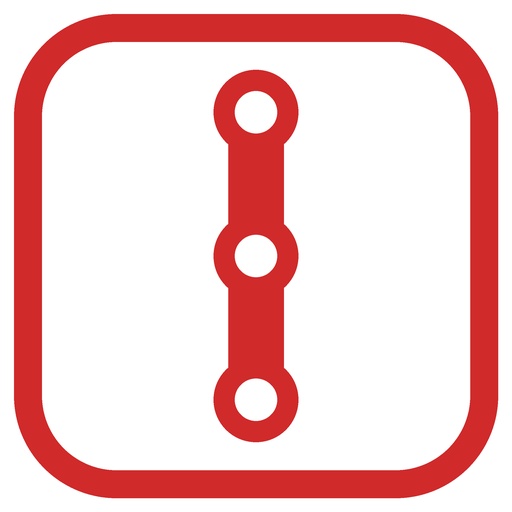
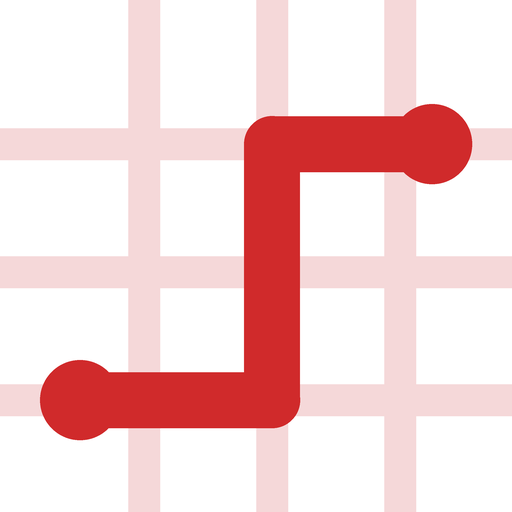
アイコンを「最短」案に差し替える
旧アイコンが生きものの顔に見えるという指摘を受けた。原因は3つが同時に
揃っていたこと: (1)角丸の枠が輪郭=頭に見える (2)中身が縦一本の左右対称で
顔の中心線と一致する (3)白抜きドーナツ状の点が瞳孔の形をしている。

新しい図は「街の格子を一本の経路が抜けていく」形で、横方向の折れ線・
左右非対称・枠なし・白抜きの点なし。上の3条件をすべて外している。
経路探索というアプリの動作そのものを図にしたものでもある。

旧版は白地が明るいホーム画面で消えるのを避けるため赤い枠を付けていたが、
その枠が顔に見える原因だったので廃止し、代わりに格子を端まで伸ばして
地紋に範囲を示させた(GRID_BLEEDで切り替え可能)。

意匠上の制約は従来どおり赤十字・ヘルプマークを回避。あわせて、赤ベタの
角丸四角はヘルプマークの第一印象そのものなので地は白のままとした。

マスカブルは経路だけ0.74倍して円の安全域に収め、32pxのファビコンは
格子がつぶれるため省いて経路を太くした。

diff --git a/sw.js b/sw.js
@@ -3,7 +3,7 @@
 // ★ 内容を更新したら必ず VERSION を変えること。
 //    VERSION が変わらないと、利用者の端末に古い運賃データが残り続ける。
 //    tools/build_network.py を実行すると、この行は自動で書き換わる。
-const VERSION = "2026-08-28-3";
+const VERSION = "2026-08-29-1";
 
 const CACHE = "toei-muryo-" + VERSION;
 

diff --git a/tools/make_icons.py b/tools/make_icons.py
@@ -3,13 +3,27 @@
 """
 PWA用のアイコンを生成する。 python tools/make_icons.py で実行。
 
+意匠: 街の格子を一本の経路が抜けていく図(2026-08-28に採用した「最短」案)。
+      格子は淡い赤、経路は RayV の赤。始点と終点に駅の点を置く。
+
 意匠上の制約:
   ・白地に赤十字は赤十字標章条約および国内法で使用が禁じられているため、十字形は使わない。
+    格子は淡色の細線が等間隔に並ぶ地紋であって、標章とは形も色も異なる。
   ・ヘルプマークは東京都の登録商標で改変できないため、模倣しない。
-  → 経路(線と3つの駅)のモチーフを、RayVのロゴに合わせた白地・赤で表現する。
+    赤ベタの角丸四角はヘルプマークの第一印象そのものなので、地は白のままにしてある。
+  ・花・笑顔・ハート・手など、福祉を直接連想させる記号は使わない。
 
-白地のままだと明るいホーム画面で輪郭が消えるため、通常アイコンには赤い枠を付ける。
-マスカブル(Androidで円などに切り抜かれる)は枠が切れてしまうので、枠なしで中央に寄せる。
+★以前のアイコンが「顔」に見えた理由と、その回避★
+  旧版は (1)角丸の枠が輪郭=頭に見え (2)中身が縦一本の左右対称で顔の中心線と一致し
+  (3)白抜きドーナツ状の点が瞳孔の形をしていた、の3つが揃っていた。
+  この案は横方向の折れ線・左右非対称・枠なし・白抜きの点なし で、3つとも外している。
+  ★改変するときはこの3条件を復活させないこと。★
+
+枠について:
+  旧版は「白地だと明るいホーム画面で輪郭が消える」ため赤い枠を付けていたが、
+  枠は頭の輪郭に見える原因だったので使わない。代わりに格子を端まで伸ばし、
+  地紋そのものにアイコンの範囲を示させている(GRID_BLEED)。
+  余白のある見た目に戻したい場合は GRID_BLEED = False にする。
 """
 
 import os
@@ -18,37 +32,60 @@ from PIL import Image, ImageDraw
 HERE = os.path.dirname(os.path.abspath(__file__))
 OUT = os.path.join(os.path.dirname(HERE), "icons")
 
-RED = (208, 42, 43)       # RayVのロゴに合わせた赤
+RED = (208, 42, 43)        # RayVのロゴに合わせた赤
+GRID = (245, 216, 217)     # 街路の格子。経路より十分に淡くする
 WHITE = (255, 255, 255)
 
+# 意匠は 64×64 の升目で定義し、出力の大きさに合わせて拡大する。
+ROUTE = [(10, 50), (34, 50), (34, 18), (54, 18)]  # 左下から右上へ、2回折れる
+GRID_X = (18, 34, 50)
+GRID_Y = (18, 34, 50)
+GRID_BLEED = True          # 格子を端まで伸ばす(枠の代わりに範囲を示す)
+GRID_INSET = 8             # GRID_BLEED = False のときの格子の端
 
-def draw_icon(size, pad_ratio, border):
-    ss = 4  # アンチエイリアス用に4倍で描いて縮小する
+ROUTE_W = 7.0              # 経路の太さ
+DOT_R = 5.0                # 駅の点の半径
+GRID_W = 4.0               # 格子の太さ
+
+
+def _disc(d, x, y, r, fill):
+    d.ellipse([x - r, y - r, x + r, y + r], fill=fill)
+
+
+def _polyline(d, pts, width, fill):
+    """角と端を丸めた折れ線。PILに丸キャップが無いので頂点に円を重ねる。"""
+    w = max(1, int(round(width)))
+    for (x1, y1), (x2, y2) in zip(pts, pts[1:]):
+        d.line([x1, y1, x2, y2], fill=fill, width=w)
+    for x, y in pts:
+        _disc(d, x, y, width / 2.0, fill)
+
+
+def draw_icon(size, grid=True, scale=1.0, route_w=ROUTE_W, dot_r=DOT_R):
+    """scale は経路だけを中心に寄せる倍率。マスカブル(円に切り抜かれる)用。"""
+    ss = 4                      # アンチエイリアス用に4倍で描いて縮小する
     s = size * ss
+    u = s / 64.0                # 升目1つぶんの画素数
     img = Image.new("RGBA", (s, s), WHITE + (255,))
     d = ImageDraw.Draw(img)
 
-    if border:
-        bw = s * 0.055
-        d.rounded_rectangle([bw / 2, bw / 2, s - bw / 2, s - bw / 2],
-                            radius=s * 0.20, outline=RED, width=int(bw))
+    if grid:
+        gw = max(1, int(round(GRID_W * u)))
+        lo, hi = (0, s) if GRID_BLEED else (GRID_INSET * u, (64 - GRID_INSET) * u)
+        for gx in GRID_X:
+            d.line([gx * u, lo, gx * u, hi], fill=GRID, width=gw)
+        for gy in GRID_Y:
+            d.line([lo, gy * u, hi, gy * u], fill=GRID, width=gw)
 
-    pad = s * pad_ratio
-    inner = s - pad * 2
-    cx = s / 2
-    top = pad + inner * 0.11
-    mid = pad + inner * 0.50
-    bottom = pad + inner * 0.89
-    bar = inner * 0.15
+    def place(p):
+        x, y = p
+        return ((32 + (x - 32) * scale) * u, (32 + (y - 32) * scale) * u)
 
-    d.rounded_rectangle([cx - bar / 2, top, cx + bar / 2, bottom],
-                        radius=bar / 2, fill=RED)
-
-    r_out = inner * 0.115
-    r_in = r_out * 0.5
-    for cy in (top, mid, bottom):
-        d.ellipse([cx - r_out, cy - r_out, cx + r_out, cy + r_out], fill=RED)
-        d.ellipse([cx - r_in, cy - r_in, cx + r_in, cy + r_in], fill=WHITE + (255,))
+    pts = [place(p) for p in ROUTE]
+    _polyline(d, pts, route_w * scale * u, RED)
+    r = dot_r * scale * u
+    _disc(d, pts[0][0], pts[0][1], r, RED)
+    _disc(d, pts[-1][0], pts[-1][1], r, RED)
 
     return img.resize((size, size), Image.LANCZOS)
 
@@ -56,16 +93,18 @@ def draw_icon(size, pad_ratio, border):
 def main():
     os.makedirs(OUT, exist_ok=True)
     specs = [
-        # (ファイル名, 大きさ, 余白, 枠)
-        ("icon-192.png", 192, 0.14, True),
-        ("icon-512.png", 512, 0.14, True),
-        ("icon-maskable-512.png", 512, 0.24, False),  # 切り抜かれるので枠なし・中央寄せ
-        ("apple-touch-icon.png", 180, 0.14, True),
-        ("favicon-32.png", 32, 0.10, True),
+        # (ファイル名, 大きさ, 格子, 経路の倍率, 経路の太さ, 点の半径)
+        ("icon-192.png",           192, True,  1.00, ROUTE_W, DOT_R),
+        ("icon-512.png",           512, True,  1.00, ROUTE_W, DOT_R),
+        # Androidで円などに切り抜かれる。内側8割に収まるよう経路だけ縮める。
+        ("icon-maskable-512.png",  512, True,  0.74, ROUTE_W, DOT_R),
+        ("apple-touch-icon.png",   180, True,  1.00, ROUTE_W, DOT_R),
+        # 32pxでは格子がつぶれて濁るので省き、経路を少し太くする。
+        ("favicon-32.png",          32, False, 1.00, 8.0,     5.5),
     ]
-    for name, size, pad, border in specs:
+    for name, size, grid, scale, rw, dr in specs:
         p = os.path.join(OUT, name)
-        draw_icon(size, pad, border).save(p)
+        draw_icon(size, grid=grid, scale=scale, route_w=rw, dot_r=dr).save(p)
         print("%-26s %4dpx  %5.1f KB" % (name, size, os.path.getsize(p) / 1024))
 
 

diff --git a/docs/CHANGELOG.md b/docs/CHANGELOG.md
@@ -3,6 +3,23 @@
 アプリのバージョンは `sw.js` の `VERSION` を真実の源にしている。
 更新するときは必ず日付を進めること(利用者の端末のキャッシュを入れ替えるため)。
 
+## 2026-08-29-1
+
+- アプリのアイコンを差し替えた。街の格子を一本の経路が抜けていく図(「最短」案)。
+  旧アイコンは生きものの顔に見えるという指摘があり、原因は
+  (1)角丸の枠が輪郭=頭に見える (2)中身が縦一本の左右対称で顔の中心線と一致する
+  (3)白抜きドーナツ状の点が瞳孔の形をしている、の3つが揃っていたこと。
+  新しい図は横方向の折れ線・左右非対称・枠なし・白抜きの点なしで、3つとも外している。
+  **この3条件を復活させないこと**(`tools/make_icons.py` の冒頭に明記した)。
+- 旧版は「白地だと明るいホーム画面で輪郭が消える」ため赤い枠を付けていたが、
+  枠が顔に見える原因だったので廃止。代わりに格子を端まで伸ばし、地紋に範囲を示させている。
+  余白のある見た目に戻す場合は `make_icons.py` の `GRID_BLEED` を `False` にする。
+- 意匠上の制約は従来どおり(赤十字は条約・国内法で禁止、ヘルプマークは東京都の登録商標)。
+  今回あらたに、**赤ベタの角丸四角はヘルプマークの第一印象そのもの**なので地は白のままとした。
+  花・笑顔・ハート・手など福祉を直接連想させる記号も使っていない。
+- マスカブル(Androidで円に切り抜かれる)は経路だけを0.74倍して安全域に収めた。
+  32pxのファビコンは格子がつぶれて濁るため格子を省き、経路を少し太くしている。
+
 ## 2026-08-28-3
 
 - 旧worktree(claude/transit-guidance-service-50840a、08-23作業)にあった距離・運賃の
